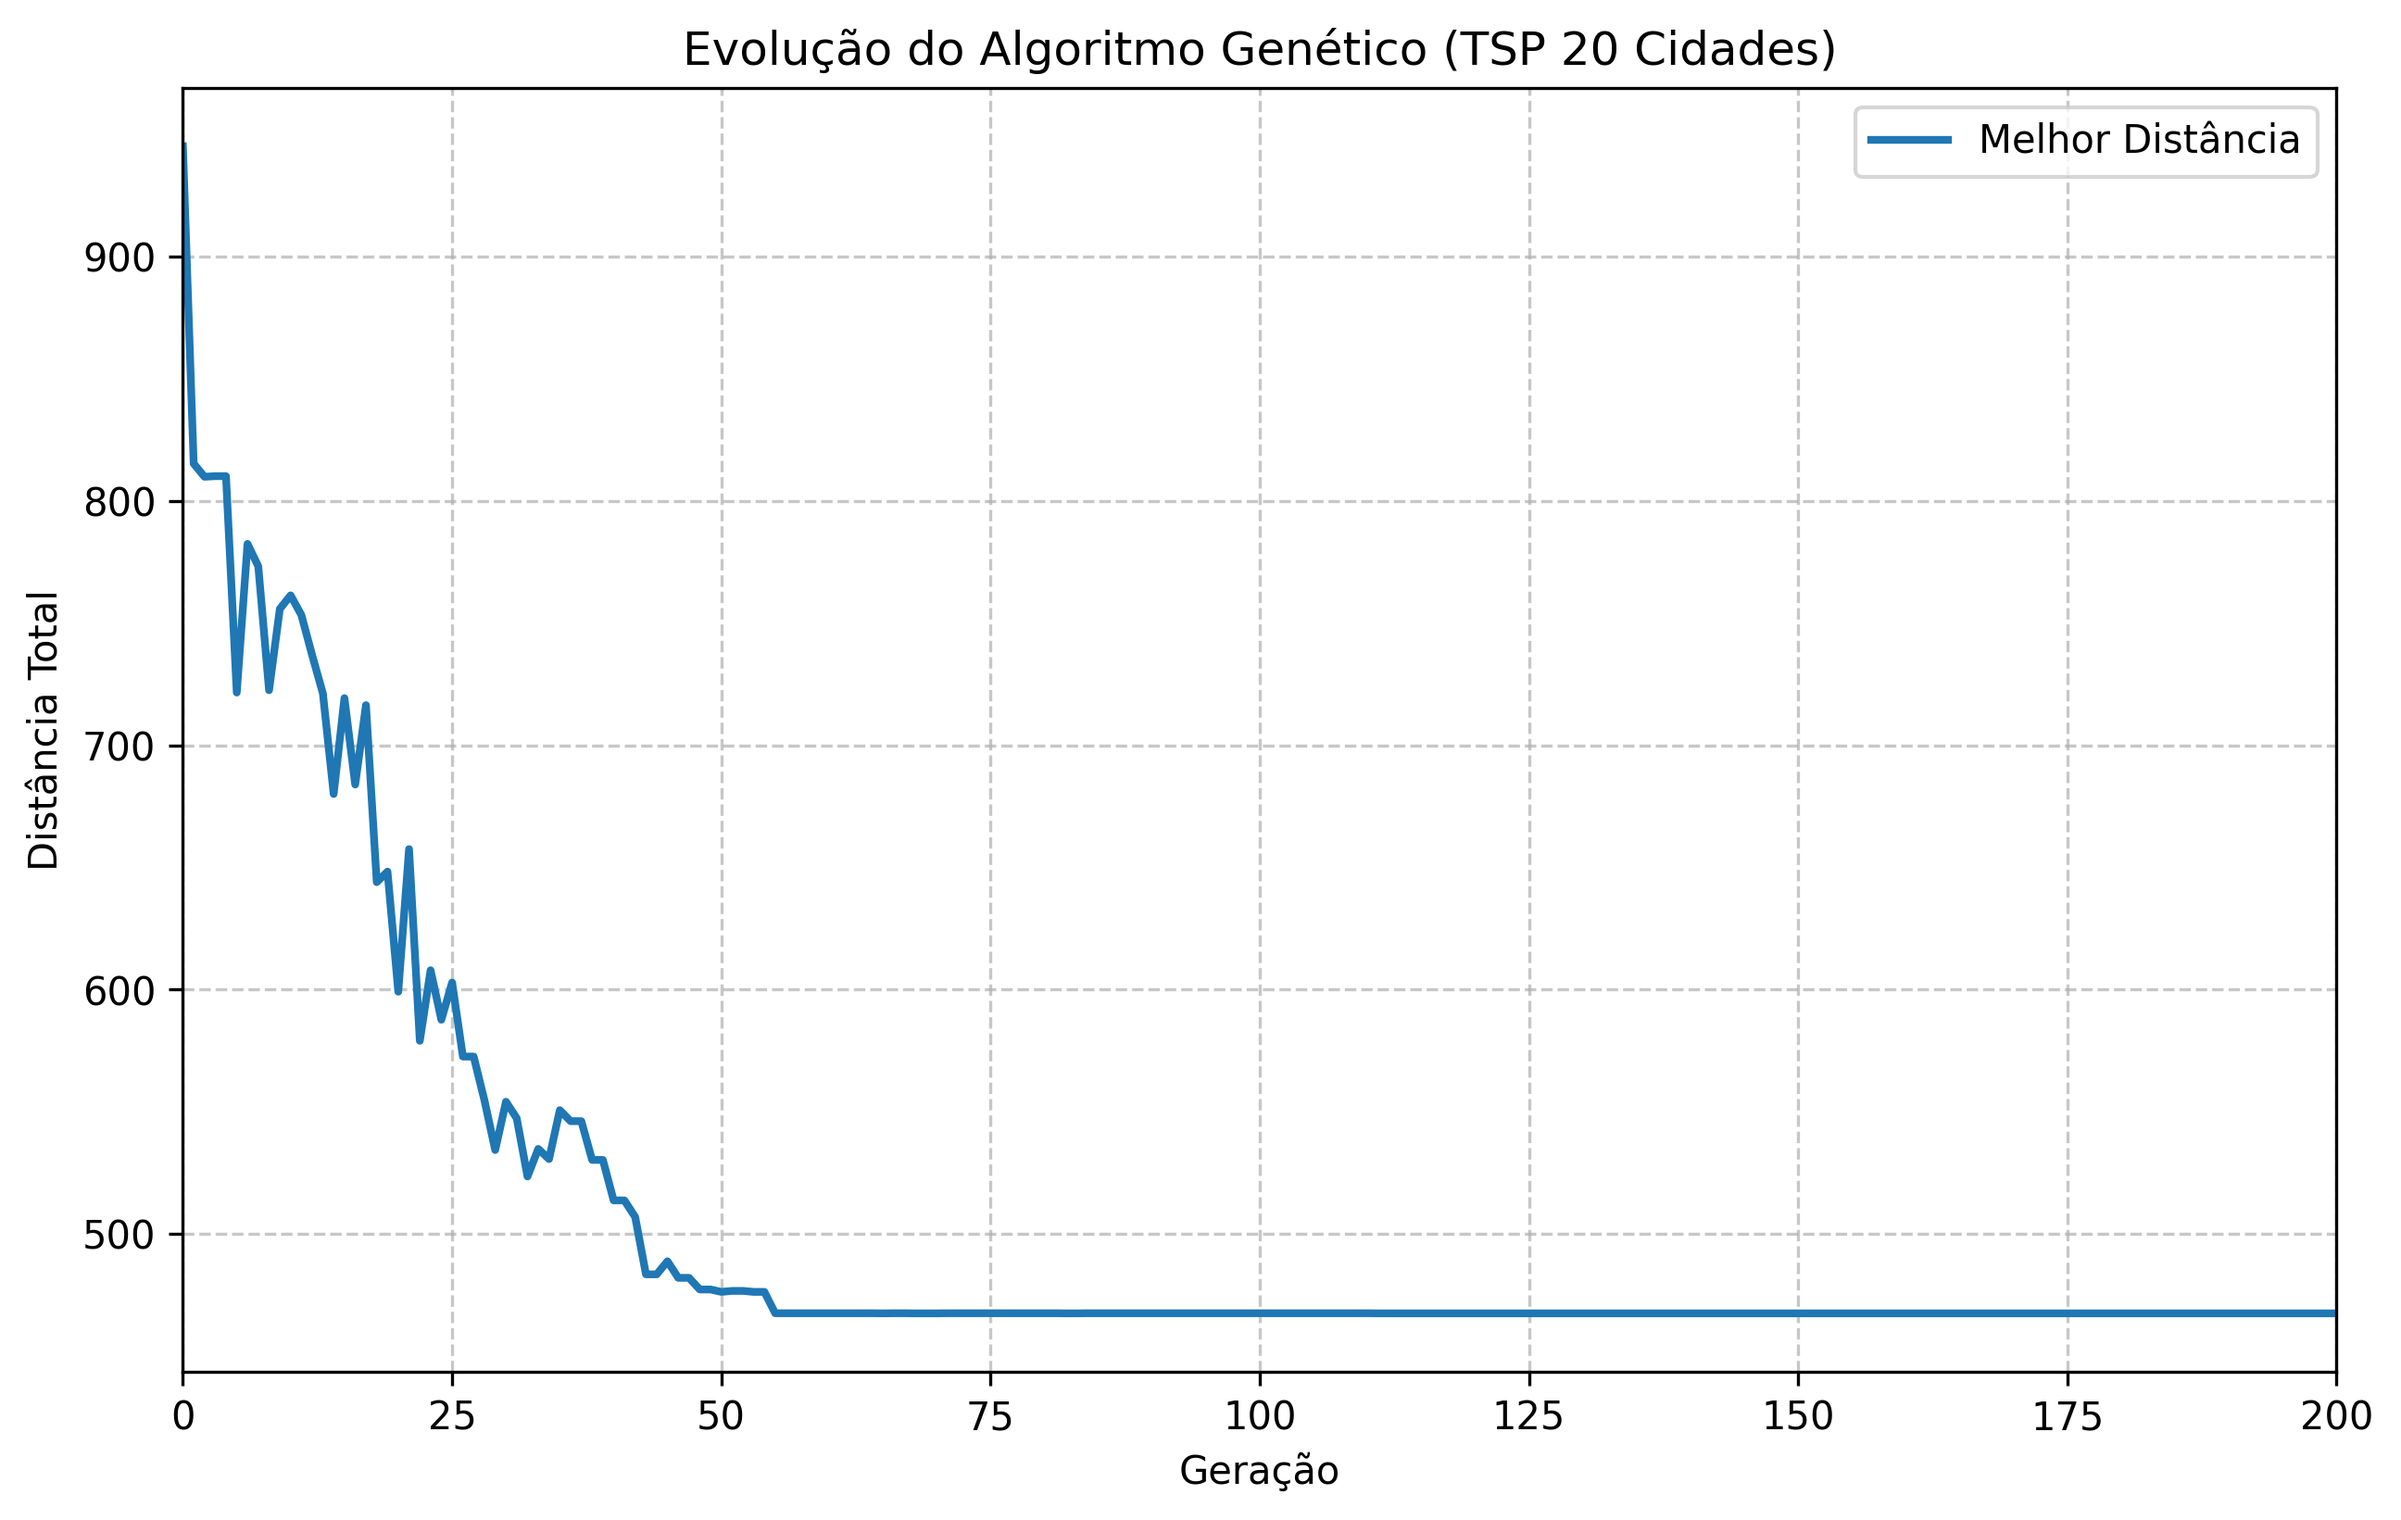
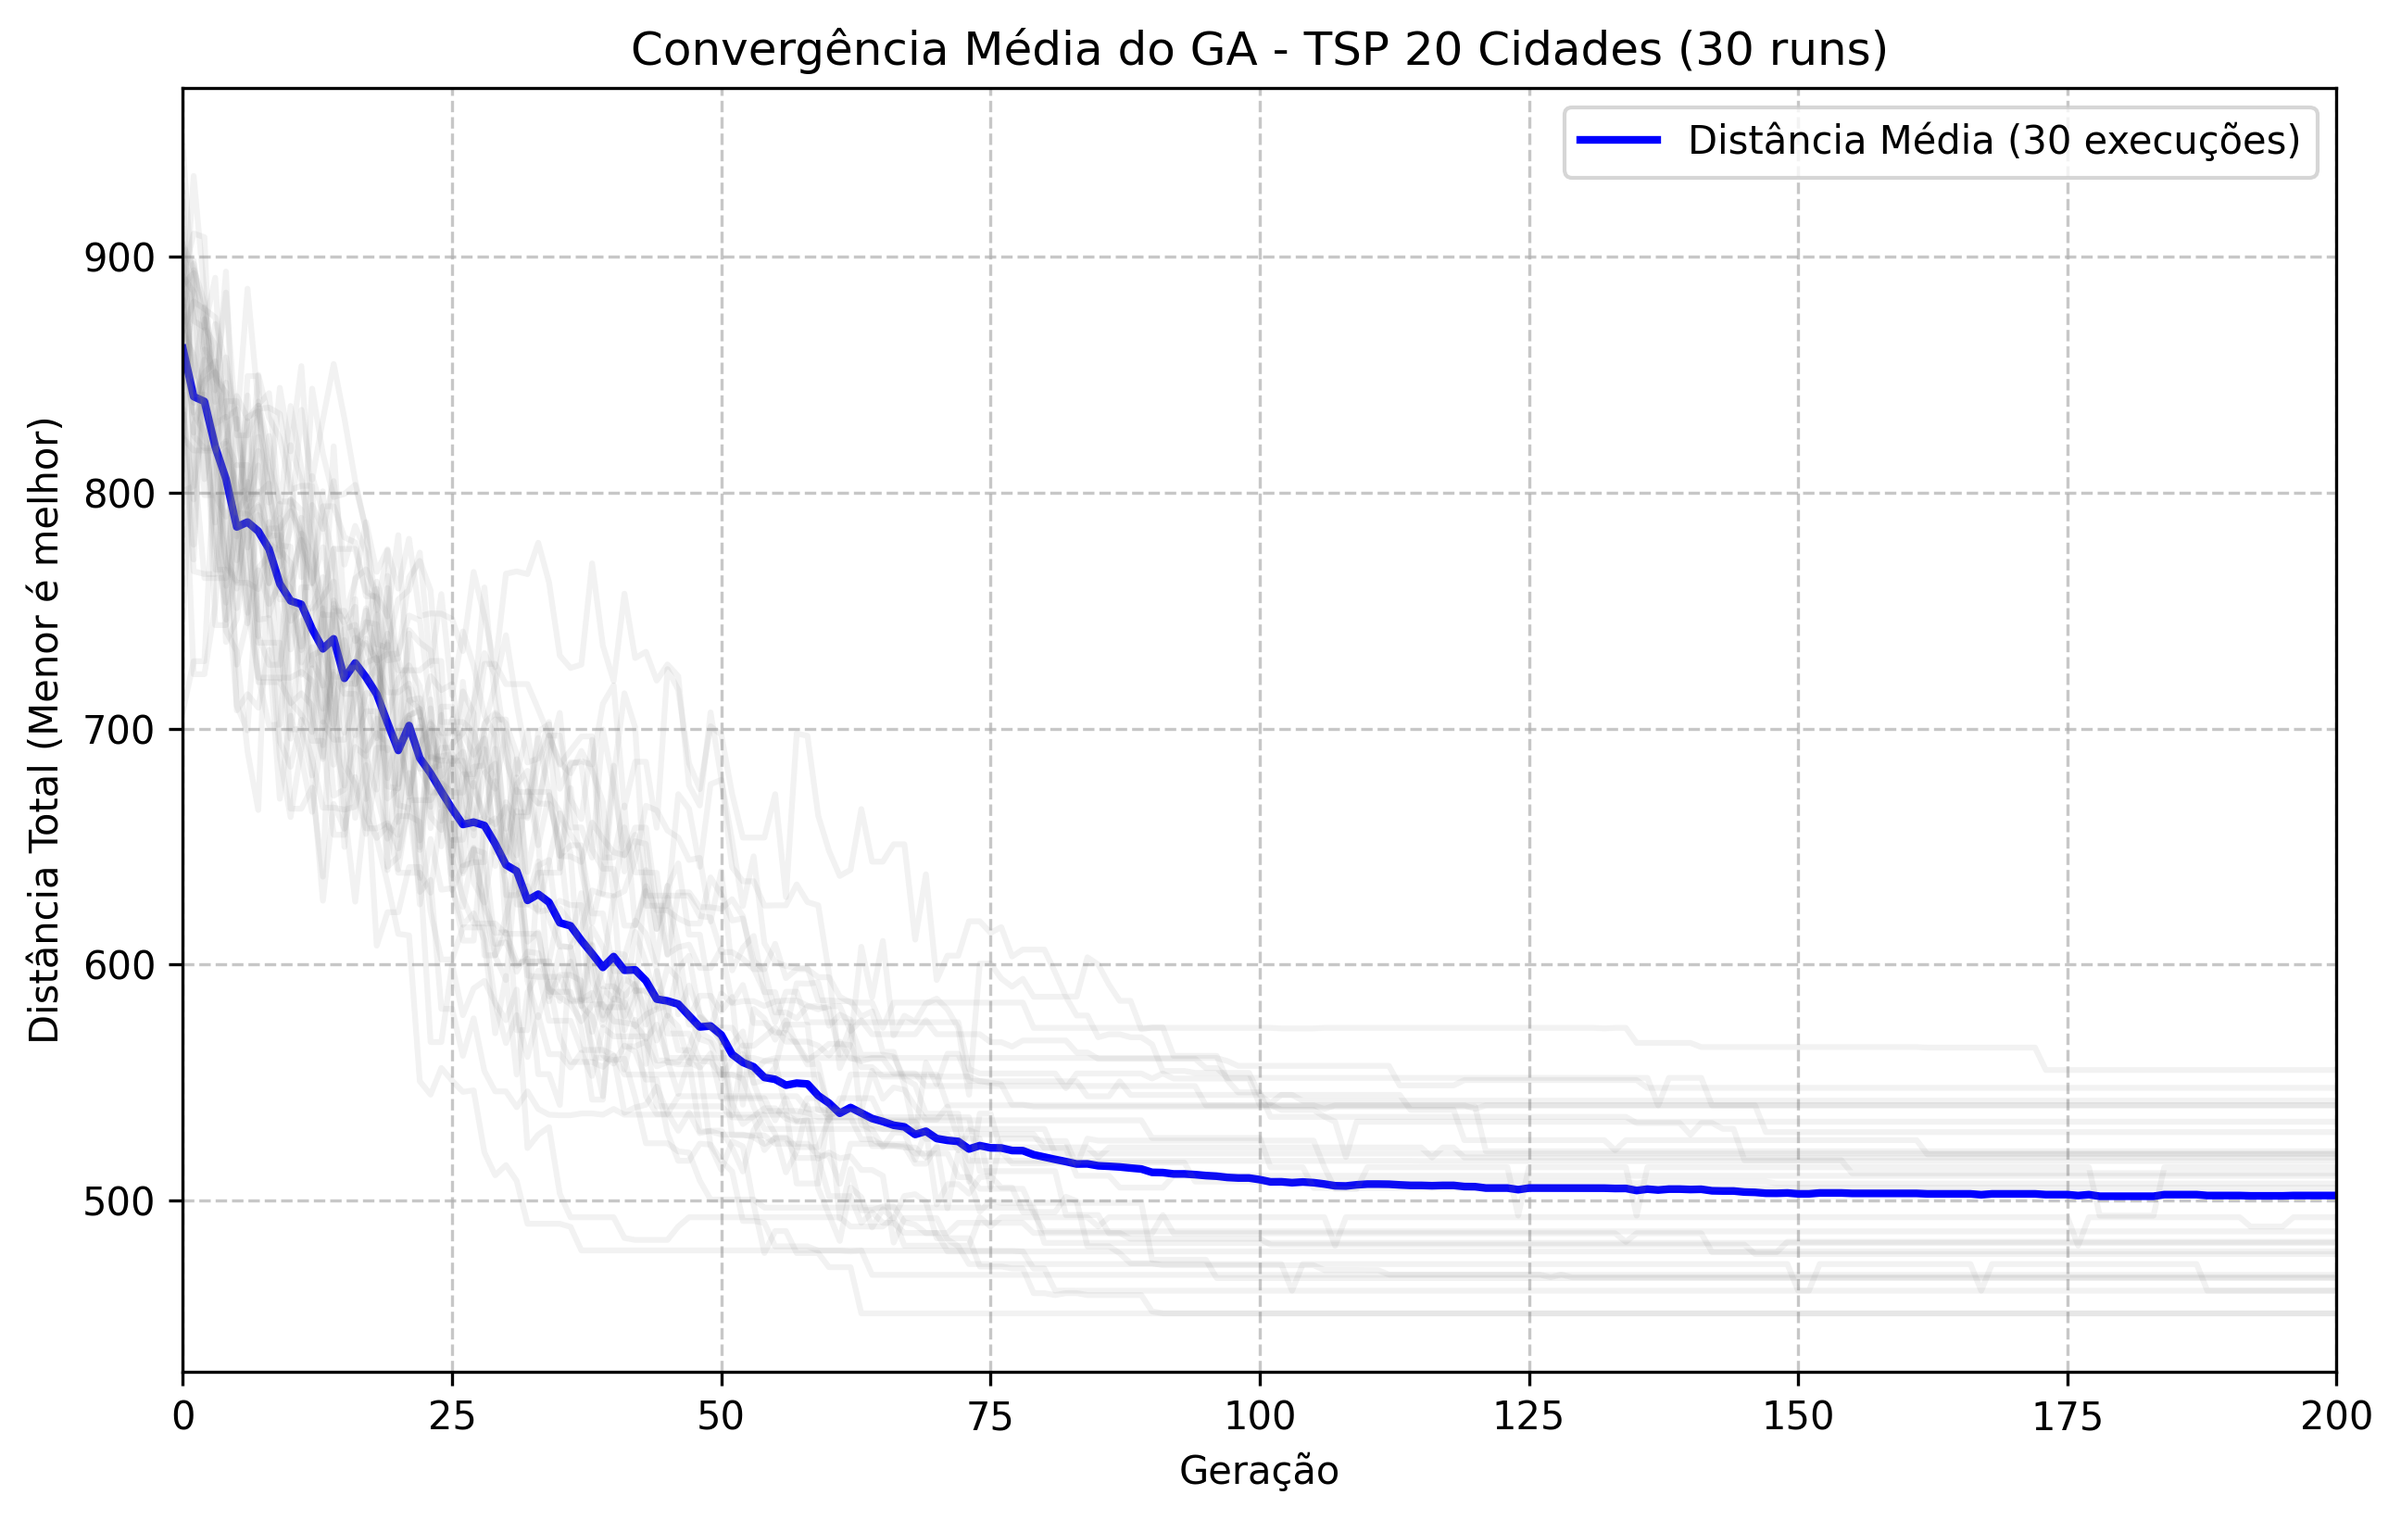
part3

diff --git a/src/part3_ga/run_ga.py b/src/part3_ga/run_ga.py
@@ -1,53 +1,100 @@
 from ga import GA
 from problems.tsp import *
 import matplotlib.pyplot as plt
-import os
 import numpy as np
+import time
+import os
+
+# Configurações do Experimento
+N_RUNS = 30           
+POP_SIZE = 100        
+CX_RATE = 0.9
+MUT_RATE = 0.1        
+MAX_ITERS = 2000
 
 if __name__ == "__main__":
-    
-    ga = GA(
-        pop_size=100,        
-        cx_rate=0.9,
-        mut_rate=0.1,       
-        fitness_fn=fitness,
-        create_ind=create_ind,
-        crossover=crossover,
-        mutate=mutate,
-        max_iters=2000
-    )
-    
-    print(">> Executando GA...")
-    best, score, history = ga.run()
-    
-    print(f"Melhor rota encontrada: {best}")
-    
-    distancia_final = -score
-    print(f"Distância total: {distancia_final:.2f}")
-    
-    
-    # Converter histórico de fitness negativo para distância positiva
-    history_dist = [-h for h in history]
+    results_dist = []
+    results_time = []
+    all_histories = []
+
+    print(f">> Iniciando {N_RUNS} execuções do Algoritmo Genético...")
+    print("-" * 50)
+
+    for i in range(N_RUNS):
+        start_time = time.time()
+        
+        # Cria a instância do GA com uma seed variável (0, 1, 2... 29)
+        # Isso garante que cada execução seja diferente, mas reprodutível se rodar de novo
+        ga = GA(
+            pop_size=POP_SIZE,
+            cx_rate=CX_RATE,
+            mut_rate=MUT_RATE,
+            fitness_fn=fitness,
+            create_ind=create_ind,
+            crossover=crossover,
+            mutate=mutate,
+            max_iters=MAX_ITERS,
+            seed=i 
+        )
+        
+        best, score, history = ga.run()
+        end_time = time.time()
+        
+        # O score vem negativo (fitness), convertemos para distância positiva
+        dist = -score 
+        
+        results_dist.append(dist)
+        results_time.append(end_time - start_time)
+        
+        # Converter histórico de fitness negativo para distância positiva para o gráfico
+        history_dist = [-h for h in history]
+        all_histories.append(history_dist)
+        
+        print(f"Execução {i+1:02d}/{N_RUNS} | Melhor Distância: {dist:.2f} | Tempo: {end_time - start_time:.4f}s")
+
+    # --- CÁLCULO DAS ESTATÍSTICAS FINAIS ---
+    best_overall = np.min(results_dist)
+    worst_overall = np.max(results_dist)
+    mean_dist = np.mean(results_dist)
+    std_dist = np.std(results_dist)
+    mean_time = np.mean(results_time)
+
+    print("-" * 50)
+    print("=== RELATÓRIO ESTATÍSTICO (Copiar para o LaTeX) ===")
+    print(f"Melhor Distância (Mínimo): {best_overall:.2f}")
+    print(f"Pior Distância (Máximo): {worst_overall:.2f}")
+    print(f"Distância Média Final: {mean_dist:.2f}")
+    print(f"Desvio Padrão: {std_dist:.2f}")
+    print(f"Tempo Médio de Execução: {mean_time:.4f} s")
+    print("-" * 50)
+
+    # --- PLOTAGEM DO GRÁFICO DE CONVERGÊNCIA MÉDIA ---
+    # Transforma a lista de listas em uma matriz para calcular a média de cada geração
+    all_histories_np = np.array(all_histories)
+    mean_history = np.mean(all_histories_np, axis=0)
 
     plt.figure(figsize=(10, 6))
-    plt.plot(history_dist, linewidth=2, label="Melhor Distância")
     
+    # Plota a média (linha forte)
+    plt.plot(mean_history, linewidth=2, color='blue', label="Distância Média (30 execuções)")
+    
+    # (Opcional) Plota todas as execuções em cinza claro no fundo para mostrar a variação
+    for h in all_histories:
+         plt.plot(h, color='gray', alpha=0.1)
+
     plt.xlabel("Geração")
-    plt.ylabel("Distância Total")
-    plt.title("Evolução do Algoritmo Genético (TSP 20 Cidades)")
-    
-    # Adiciona grade para facilitar leitura
+    plt.ylabel("Distância Total (Menor é melhor)")
+    plt.title(f"Convergência Média do GA - TSP 20 Cidades ({N_RUNS} runs)")
     plt.grid(True, linestyle='--', alpha=0.7)
     plt.legend()
 
-    
     plt.xlim(0, 200) 
-
-    # Salvar
+    
+    # Salvar Gráfico
     pasta = "../../reports/figs"
     os.makedirs(pasta, exist_ok=True)
     caminho = os.path.join(pasta, "graficoga.png")
 
     plt.savefig(caminho, dpi=300, bbox_inches="tight")
-    print(f">> Gráfico salvo em: {caminho}")
-    plt.show()
+    print(f">> Gráfico salvo com sucesso em: {caminho}")
+    # plt.show() # Descomente se quiser ver o gráfico pipocar na tela
